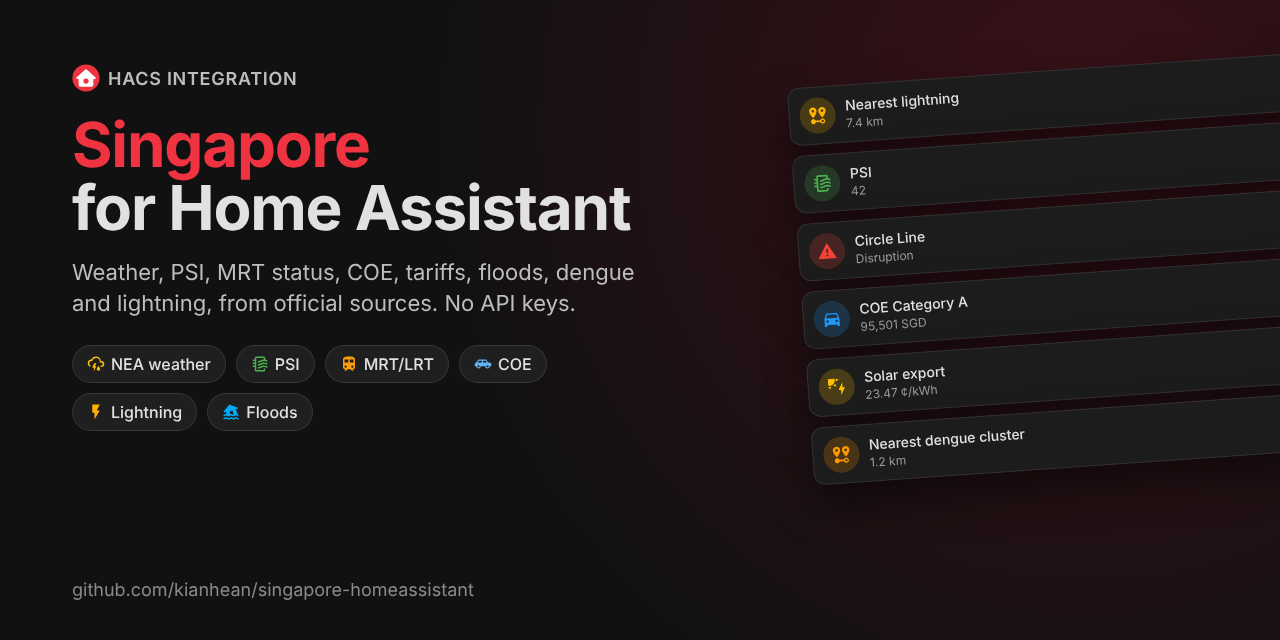
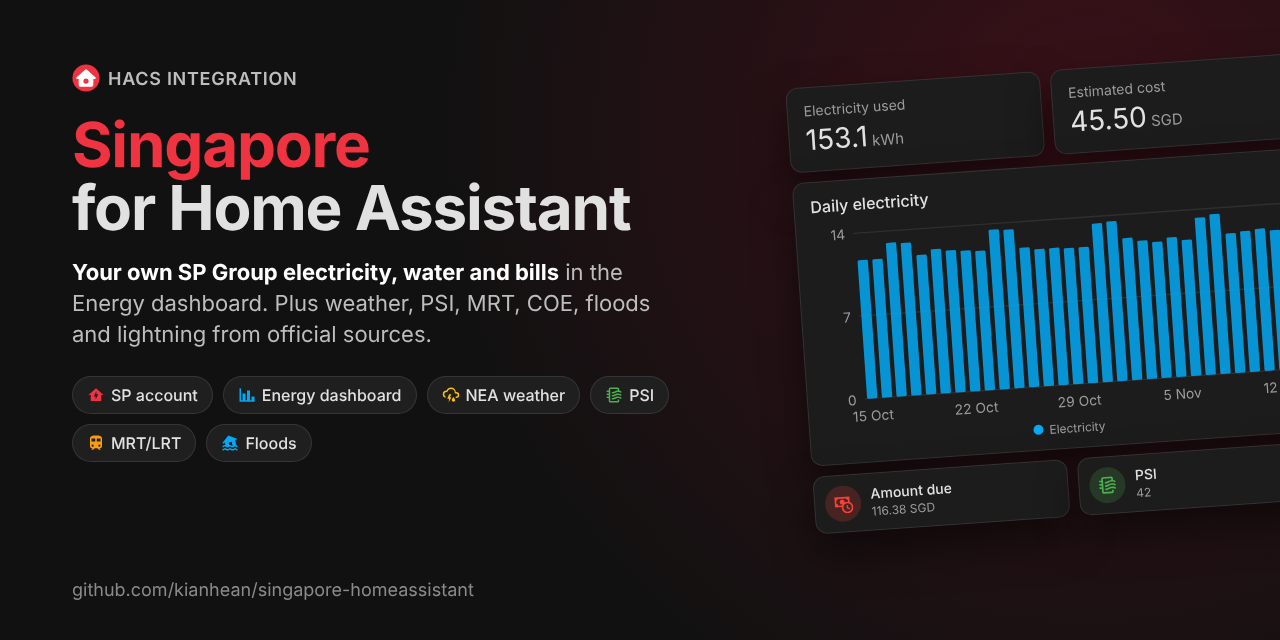
README: spotlight SP Group account support near the top (#54)

diff --git a/docs/mockups/social.html b/docs/mockups/social.html
@@ -13,29 +13,39 @@
   .chips svg.mdi { width: 18px; height: 18px; color: var(--c); }
   .right { position: absolute; right: -40px; top: 70px; width: 520px; display: flex; flex-direction: column; gap: 10px; transform: rotate(-4deg); }
   .right .card { box-shadow: 0 20px 40px rgba(0,0,0,.5); }
+  .right .grid2 { display: grid; grid-template-columns: 1fr 1fr; gap: 10px; }
+  .stat { padding: 14px 16px; }
+  .stat .sname { color: var(--muted); font-size: 14px; }
+  .stat .sval { font-size: 28px; font-weight: 400; margin-top: 4px; }
+  .stat .sval span { font-size: 15px; color: var(--muted); }
+  .chart { padding: 4px 10px 0; }
+  .legend { display: flex; align-items: center; justify-content: center; gap: 6px; color: var(--muted); font-size: 12px; padding: 2px 0 12px; }
   .url { position: absolute; left: 72px; bottom: 40px; color: #8a8a8a; font-size: 18px; }
 </style></head>
 <body>
   <div class="left">
     <div class="kicker"><svg xmlns="http://www.w3.org/2000/svg" viewBox="0 0 256 256" class="mark">   <circle cx="128" cy="128" r="124" fill="#EF3340"/>   <path d="M128 52 L210 124 Q214 128 208 132 L190 132 L190 192 Q190 202 180 202 L76 202 Q66 202 66 192 L66 132 L48 132 Q42 128 46 124 Z"         fill="#FFFFFF" stroke="#FFFFFF" stroke-width="10" stroke-linejoin="round"/>   <circle cx="128" cy="156" r="24" fill="#EF3340"/> </svg>HACS INTEGRATION</div>
     <h1><span>Singapore</span><br>for Home Assistant</h1>
-    <div class="lead">Weather, PSI, MRT status, COE, tariffs, floods, dengue and lightning, from official sources. No API keys.</div>
+    <div class="lead"><b style="color:#fff">Your own SP Group electricity, water and bills</b> in the Energy dashboard. Plus weather, PSI, MRT, COE, floods and lightning from official sources.</div>
     <div class="chips">
+      <span class="chip" style="--c:#ef3340"><i m="mdiHomeLightningBolt"></i>SP account</span>
+      <span class="chip" style="--c:#03a9f4"><i m="mdiChartBar"></i>Energy dashboard</span>
       <span class="chip" style="--c:#ffc107"><i m="mdiWeatherLightningRainy"></i>NEA weather</span>
       <span class="chip" style="--c:#4caf50"><i m="mdiAirFilter"></i>PSI</span>
       <span class="chip" style="--c:#fa9e0d"><i m="mdiTrain"></i>MRT/LRT</span>
-      <span class="chip" style="--c:#64b5f6"><i m="mdiCarHatchback"></i>COE</span>
-      <span class="chip" style="--c:#ffb300"><i m="mdiFlash"></i>Lightning</span>
       <span class="chip" style="--c:#03a9f4"><i m="mdiHomeFlood"></i>Floods</span>
     </div>
   </div>
   <div class="right">
-    <div class="card tile"><span class="bubble" style="--c:var(--amber)"><i m="mdiMapMarkerDistance"></i></span><div><div class="name">Nearest lightning</div><div class="state">7.4 km</div></div></div>
-    <div class="card tile"><span class="bubble" style="--c:var(--green)"><i m="mdiAirFilter"></i></span><div><div class="name">PSI</div><div class="state">42</div></div></div>
-    <div class="card tile"><span class="bubble" style="--c:var(--red)"><i m="mdiAlert"></i></span><div><div class="name">Circle Line</div><div class="state">Disruption</div></div></div>
-    <div class="card tile"><span class="bubble" style="--c:var(--blue)"><i m="mdiCar"></i></span><div><div class="name">COE Category A</div><div class="state">95,501 SGD</div></div></div>
-    <div class="card tile"><span class="bubble" style="--c:var(--yellow)"><i m="mdiSolarPower"></i></span><div><div class="name">Solar export</div><div class="state">23.47 ¢/kWh</div></div></div>
-    <div class="card tile"><span class="bubble" style="--c:var(--orange)"><i m="mdiMapMarkerDistance"></i></span><div><div class="name">Nearest dengue cluster</div><div class="state">1.2 km</div></div></div>
+    <div class="grid2">
+      <div class="card stat"><div class="sname">Electricity used</div><div class="sval">153.1<span> kWh</span></div></div>
+      <div class="card stat"><div class="sname">Estimated cost</div><div class="sval">45.50<span> SGD</span></div></div>
+    </div>
+    <div class="card"><div class="card-title">Daily electricity</div><div class="chart"><svg viewBox="0 0 360 150" width="100%"><line x1="34" x2="354" y1="128.0" y2="128.0" stroke="#2f2f2f"/><text x="28" y="132.0" text-anchor="end" font-size="10" fill="#9b9b9b">0</text><line x1="34" x2="354" y1="68.0" y2="68.0" stroke="#2f2f2f"/><text x="28" y="72.0" text-anchor="end" font-size="10" fill="#9b9b9b">7</text><line x1="34" x2="354" y1="8.0" y2="8.0" stroke="#2f2f2f"/><text x="28" y="12.0" text-anchor="end" font-size="10" fill="#9b9b9b">14</text><rect x="35.6" y="27.7" width="7.5" height="100.3" rx="1" fill="#03a9f4" fill-opacity=".85"/><rect x="46.3" y="27.7" width="7.5" height="100.3" rx="1" fill="#03a9f4" fill-opacity=".85"/><rect x="56.9" y="16.6" width="7.5" height="111.4" rx="1" fill="#03a9f4" fill-opacity=".85"/><rect x="67.6" y="17.4" width="7.5" height="110.6" rx="1" fill="#03a9f4" fill-opacity=".85"/><rect x="78.3" y="26.9" width="7.5" height="101.1" rx="1" fill="#03a9f4" fill-opacity=".85"/><rect x="88.9" y="23.4" width="7.5" height="104.6" rx="1" fill="#03a9f4" fill-opacity=".85"/><rect x="99.6" y="25.1" width="7.5" height="102.9" rx="1" fill="#03a9f4" fill-opacity=".85"/><rect x="110.3" y="26.0" width="7.5" height="102.0" rx="1" fill="#03a9f4" fill-opacity=".85"/><rect x="120.9" y="26.9" width="7.5" height="101.1" rx="1" fill="#03a9f4" fill-opacity=".85"/><rect x="131.6" y="12.3" width="7.5" height="115.7" rx="1" fill="#03a9f4" fill-opacity=".85"/><rect x="142.3" y="13.1" width="7.5" height="114.9" rx="1" fill="#03a9f4" fill-opacity=".85"/><rect x="152.9" y="26.9" width="7.5" height="101.1" rx="1" fill="#03a9f4" fill-opacity=".85"/><rect x="163.6" y="28.6" width="7.5" height="99.4" rx="1" fill="#03a9f4" fill-opacity=".85"/><rect x="174.3" y="28.6" width="7.5" height="99.4" rx="1" fill="#03a9f4" fill-opacity=".85"/><rect x="184.9" y="29.4" width="7.5" height="98.6" rx="1" fill="#03a9f4" fill-opacity=".85"/><rect x="195.6" y="29.4" width="7.5" height="98.6" rx="1" fill="#03a9f4" fill-opacity=".85"/><rect x="206.3" y="13.1" width="7.5" height="114.9" rx="1" fill="#03a9f4" fill-opacity=".85"/><rect x="216.9" y="12.3" width="7.5" height="115.7" rx="1" fill="#03a9f4" fill-opacity=".85"/><rect x="227.6" y="25.1" width="7.5" height="102.9" rx="1" fill="#03a9f4" fill-opacity=".85"/><rect x="238.3" y="27.7" width="7.5" height="100.3" rx="1" fill="#03a9f4" fill-opacity=".85"/><rect x="248.9" y="29.4" width="7.5" height="98.6" rx="1" fill="#03a9f4" fill-opacity=".85"/><rect x="259.6" y="26.9" width="7.5" height="101.1" rx="1" fill="#03a9f4" fill-opacity=".85"/><rect x="270.3" y="29.4" width="7.5" height="98.6" rx="1" fill="#03a9f4" fill-opacity=".85"/><rect x="280.9" y="14.0" width="7.5" height="114.0" rx="1" fill="#03a9f4" fill-opacity=".85"/><rect x="291.6" y="12.3" width="7.5" height="115.7" rx="1" fill="#03a9f4" fill-opacity=".85"/><rect x="302.3" y="26.9" width="7.5" height="101.1" rx="1" fill="#03a9f4" fill-opacity=".85"/><rect x="312.9" y="26.0" width="7.5" height="102.0" rx="1" fill="#03a9f4" fill-opacity=".85"/><rect x="323.6" y="25.1" width="7.5" height="102.9" rx="1" fill="#03a9f4" fill-opacity=".85"/><rect x="334.3" y="26.9" width="7.5" height="101.1" rx="1" fill="#03a9f4" fill-opacity=".85"/><rect x="344.9" y="69.7" width="7.5" height="58.3" rx="1" fill="#03a9f4" fill-opacity=".85"/><text x="39.3" y="144" text-anchor="middle" font-size="10" fill="#9b9b9b">15 Oct</text><text x="114.0" y="144" text-anchor="middle" font-size="10" fill="#9b9b9b">22 Oct</text><text x="188.7" y="144" text-anchor="middle" font-size="10" fill="#9b9b9b">29 Oct</text><text x="263.3" y="144" text-anchor="middle" font-size="10" fill="#9b9b9b">5 Nov</text><text x="338.0" y="144" text-anchor="middle" font-size="10" fill="#9b9b9b">12 Nov</text></svg></div><div class="legend"><span class="dot" style="background:#03a9f4"></span>Electricity</div></div>
+    <div class="grid2">
+      <div class="card tile"><span class="bubble" style="--c:var(--red)"><i m="mdiCashClock"></i></span><div><div class="name">Amount due</div><div class="state">116.38 SGD</div></div></div>
+      <div class="card tile"><span class="bubble" style="--c:var(--green)"><i m="mdiAirFilter"></i></span><div><div class="name">PSI</div><div class="state">42</div></div></div>
+    </div>
   </div>
   <div class="url">github.com/kianhean/singapore-homeassistant</div>
 </body></html>

diff --git a/README.md b/README.md
@@ -6,9 +6,9 @@
 </h1>
 
 <p align="center">
-  Weather, PSI, MRT status, COE prices, utility tariffs, flash floods, dengue and lightning,<br>
-  straight from official Singapore government sources. No API keys, no accounts.<br>
-  Optionally, link your SP Group e-account for your own electricity, water and bill readings.
+  <b>Your own SP Group electricity, water and bills, right in Home Assistant's Energy dashboard.</b><br>
+  Plus weather, PSI, MRT status, COE prices, flash floods, dengue and lightning,<br>
+  straight from official Singapore government sources. No API keys needed.
 </p>
 
 <p align="center">
@@ -33,20 +33,89 @@
   <sub>An example dashboard built only from Home Assistant's built-in cards. The integration provides the entities; <a href="examples/dashboard.yaml">this YAML</a> builds the dashboard. Camera stills are real LTA images.</sub>
 </p>
 
+## Your SP Group account, in Home Assistant
+
+Sign in with the email and password you use in the SP app, and your flat or house's own
+electricity, water and bills land in Home Assistant. No smart plugs, clamps or extra hardware:
+the data comes from the meters SP already reads.
+
+> [!TIP]
+> The SP account support is built on **[maci0/home-assistant-sp](https://github.com/maci0/home-assistant-sp)**
+> by Marcel W. Wysocki ([@maci0](https://github.com/maci0)), whose SP API client, sign-in, MFA
+> and Energy statistics code is included here under the MIT License. Thank you, Marcel!
+> ([Credits](#credits))
+
+<p align="center">
+  <img src="images/sp-account-dashboard.png" alt="SP account dashboard: this month's electricity use (153.1 kWh) and estimated cost (45.50 SGD), last month's 371.4 kWh, the 29.72 cents/kWh tariff, today's usage, daily and hourly electricity bar charts, amount due and last bill of 116.38 SGD, a bar chart of monthly bills, and Green Goals usage against a 350 kWh target" width="100%">
+  <br>
+  <sub>The dashboard from <a href="examples/sp_account_dashboard.yaml">examples/sp_account_dashboard.yaml</a>, built only from Home Assistant's built-in cards. Example account data.</sub>
+</p>
+
+- 📊 **Energy dashboard, ready to go.** Electricity (hourly on a smart meter) with its cost at
+  the current SP tariff, plus water and gas, as statistics for Home Assistant's
+  built-in [Energy dashboard](#energy-dashboard-electricity-and-water).
+- ⏪ **A year of history on day one.** About 13 months of past usage is imported on the first
+  poll, so the month and year views fill in straight away.
+- 🌡 **See what the air-con costs.** Half-hourly smart-meter readings show the evening spikes;
+  put them next to `sensor.weather_temperature` and the hot afternoons stand out.
+- 🧾 **Never miss a bill.** Last bill, amount due, meter readings, prepaid credit and Green Goals
+  as sensors, plus a [one-click blueprint](#one-click-blueprints) that tells you when a new bill
+  arrives and reminds you before it's due.
+- 🔒 **Your password is never stored.** Only the session tokens SP returns are kept, and they
+  renew themselves. MFA (SMS, email or authenticator app) works, and you can link more than
+  one account.
+
+**[Link your SP account →](#optional-link-your-sp-group-e-account)** It's optional and takes a
+minute; everything else works without it. Questions about it? See the [FAQ](#faq).
+
+> [!NOTE]
+> This is a community project, not affiliated with or endorsed by SP Group. Account data comes
+> from the same unofficial APIs the SP app uses, which SP can change without notice.
+
 ## What's inside
 
 | | | |
 |---|---|---|
+| 🏠 **Your SP account** *(optional)*<br>Sign in once to get your own electricity, water and gas usage, down to the half hour on a smart meter | 📊 **Energy dashboard**<br>Hourly electricity with cost at the current SP tariff, plus monthly water, ready for [Home Assistant's Energy dashboard](#energy-dashboard-electricity-and-water) | 🧾 **Bills**<br>Last bill, amount due, meter readings and SP Green Goals, for [reminders and dashboards](#your-sp-account) |
 | 🌦 **Weather**<br>A weather entity for every NEA forecast area, with hourly and 4-day forecasts, live temperature, humidity, wind and rain, plus NEA rain radar images and animated loops | 😷 **Air quality**<br>PSI and six pollutants, overall and per region, ready for a Map card | ☀ **UV index**<br>NEA's hourly UV index and exposure level (low to extreme), with today's peak |
 | 🚇 **MRT/LRT**<br>Network and per-line status (normal, planned works, disruption) with LTA's message | 🛂 **Checkpoints**<br>Woodlands and Tuas traffic camera stills as camera entities | 🚗 **COE**<br>Category A–E premiums, refreshed after each bidding exercise |
 | ⚡ **Lightning**<br>Live strikes and the distance to the nearest one from your home | 🦟 **Dengue**<br>Active NEA clusters and how far the nearest is from your home | 🌊 **Flash floods**<br>PUB flood alerts as they're issued and cancelled |
 | 🔌 **Utilities**<br>SP Group electricity, gas and water tariffs, plus your solar export price | 🎉 **Public holidays**<br>MOM's holiday list as a calendar | 🧩 **Blueprints**<br>[One-click automations](#one-click-blueprints) for lightning, MRT disruptions, floods, haze, COE, rain, UV, dengue, holidays and SP bills |
-| 🏠 **Your SP account** *(optional)*<br>Sign in once to get your own electricity, water and gas usage, down to the half hour on a smart meter | 📊 **Energy dashboard**<br>Hourly electricity with cost at the current SP tariff, plus monthly water, ready for [Home Assistant's Energy dashboard](#energy-dashboard-electricity-and-water) | 🧾 **Bills**<br>Last bill, amount due, meter readings and SP Green Goals, for [reminders and dashboards](#your-sp-account) |
 
 The public data needs no API keys and no account: one config entry, and a diagnostics download when
 something looks off. You choose which data sources run ([Options](#options)). Linking your SP Group e-account is optional ([how](#optional-link-your-sp-group-e-account));
 that part is built on [maci0/home-assistant-sp](https://github.com/maci0/home-assistant-sp) by
 [@maci0](https://github.com/maci0) ([Credits](#credits)).
+
+## What's new
+
+- **v0.13** Animated rain radar loops (the last hour, over NEA's base map) and HACS installs
+  from a release zip.
+- **v0.12** Choose your data sources, an optional data.gov.sg API key and reduced polling
+  ([Options](#options)); repair notices for broken sources; event entities for new COE results
+  and MRT/LRT alerts; five more blueprints; Simplified Chinese (简体中文).
+- **v0.11** [Link your SP Group e-account](#your-sp-group-account-in-home-assistant) for your
+  own usage, bills and the Energy dashboard, built on
+  [maci0/home-assistant-sp](https://github.com/maci0/home-assistant-sp) by
+  [@maci0](https://github.com/maci0).
+
+Full notes for every version are on the [Releases](https://github.com/kianhean/singapore-homeassistant/releases)
+page. Upgrading from before v0.3.0? Your entity IDs are kept; see the
+[note under Setup](#optional-link-your-sp-group-e-account).
+
+## Contents
+
+- [Installation](#installation) and [Setup](#setup): [Options](#options),
+  [linking your SP account](#optional-link-your-sp-group-e-account),
+  [removing the integration](#removing-the-integration)
+- [Recipes](#recipes): [one-click blueprints](#one-click-blueprints) and
+  [copy-paste automations](#or-copy-the-yaml)
+- [Dashboard ideas](#dashboard-ideas): [your SP account](#your-sp-account) and the
+  [Energy dashboard](#energy-dashboard-electricity-and-water)
+- [Entity reference](#entity-reference): every sensor, camera, weather, calendar and event entity
+- [FAQ](#faq) and [Troubleshooting](#troubleshooting)
+- [Data sources](#data-sources), [Development](#development), [Contributing](#contributing),
+  [Credits](#credits)
 
 ## Installation
 
@@ -416,13 +485,8 @@ For the last hour as a moving loop, use `camera.weather_rain_radar_70_km_animati
 
 ### Your SP account
 
-<p align="center">
-  <img src="images/sp-account-dashboard.png" alt="SP account dashboard: this month's electricity use (153.1 kWh) and estimated cost (45.50 SGD), last month's 371.4 kWh, the 29.72 cents/kWh tariff, today's usage, daily and hourly electricity bar charts, amount due and last bill of 116.38 SGD, a bar chart of monthly bills, and Green Goals usage against a 350 kWh target" width="100%">
-  <br>
-  <sub>The dashboard from <a href="examples/sp_account_dashboard.yaml">examples/sp_account_dashboard.yaml</a>, built only from Home Assistant's built-in cards. Example account data.</sub>
-</p>
-
-With an SP account linked, **[`examples/sp_account_dashboard.yaml`](examples/sp_account_dashboard.yaml)**
+The dashboard pictured [at the top](#your-sp-group-account-in-home-assistant): with an SP account
+linked, **[`examples/sp_account_dashboard.yaml`](examples/sp_account_dashboard.yaml)**
 adds an *SP account* dashboard built only from built-in cards. Find-and-replace its two
 placeholders (your device slug and premise ID, explained at the top of the file), then paste it in.
 It shows:
@@ -961,6 +1025,64 @@ sensor.air_quality_psi_east:
     source: data.gov.sg / NEA
 ```
 
+</details>
+
+## FAQ
+
+<details>
+<summary><b>Is it safe to give the integration my SP password?</b></summary>
+
+The password is only used to sign in and is never stored. Home Assistant keeps the session
+tokens SP returns (in its config storage, like any other integration's credentials), and they
+renew themselves. Diagnostics downloads leave out your address, account number, premise ID,
+username and tokens. Deleting the account or the integration removes the tokens.
+</details>
+
+<details>
+<summary><b>Do I need a smart meter?</b></summary>
+
+No. With a smart meter you get electricity by the half hour (published a few hours late) and
+hourly bars on the Energy dashboard. Without one, SP only has billed months, so you get one
+reading per month. Water is monthly either way.
+</details>
+
+<details>
+<summary><b>I buy electricity from an Open Electricity Market retailer. Does it still work?</b></summary>
+
+Yes. Usage comes from SP, who reads the meters whichever retailer you use, and the retailer's name
+is an attribute of the *Account* sensor. The **cost** on the Energy dashboard is an estimate at
+SP Group's regulated tariff, so it won't match your retailer's rate; the **Last bill** sensor has
+the amount SP billed.
+</details>
+
+<details>
+<summary><b>Does it work with prepaid (PPMS) accounts?</b></summary>
+
+Yes. A *Prepaid credit* sensor appears when SP reports a prepaid balance, and there's a
+[low-credit automation](#with-a-linked-sp-account) to copy.
+</details>
+
+<details>
+<summary><b>Can I add more than one SP account?</b></summary>
+
+Yes, click **Add SP account** again. Each account gets its own device and its own set of Energy
+statistics (the statistic ID contains the premise ID).
+</details>
+
+<details>
+<summary><b>Do I need an API key or account for the rest?</b></summary>
+
+No. Everything except the SP account uses public data. A free
+[data.gov.sg](https://data.gov.sg) key is optional and only raises the rate limits
+([Options](#options)).
+</details>
+
+<details>
+<summary><b>Is this an official app from SP Group, NEA, LTA or GovTech?</b></summary>
+
+No. It's a community project, not affiliated with or endorsed by any of them. The public data
+comes from the official open-data sources listed under [Data sources](#data-sources); the SP
+account uses the unofficial APIs behind the SP app, which SP can change without notice.
 </details>
 
 ## Troubleshooting
